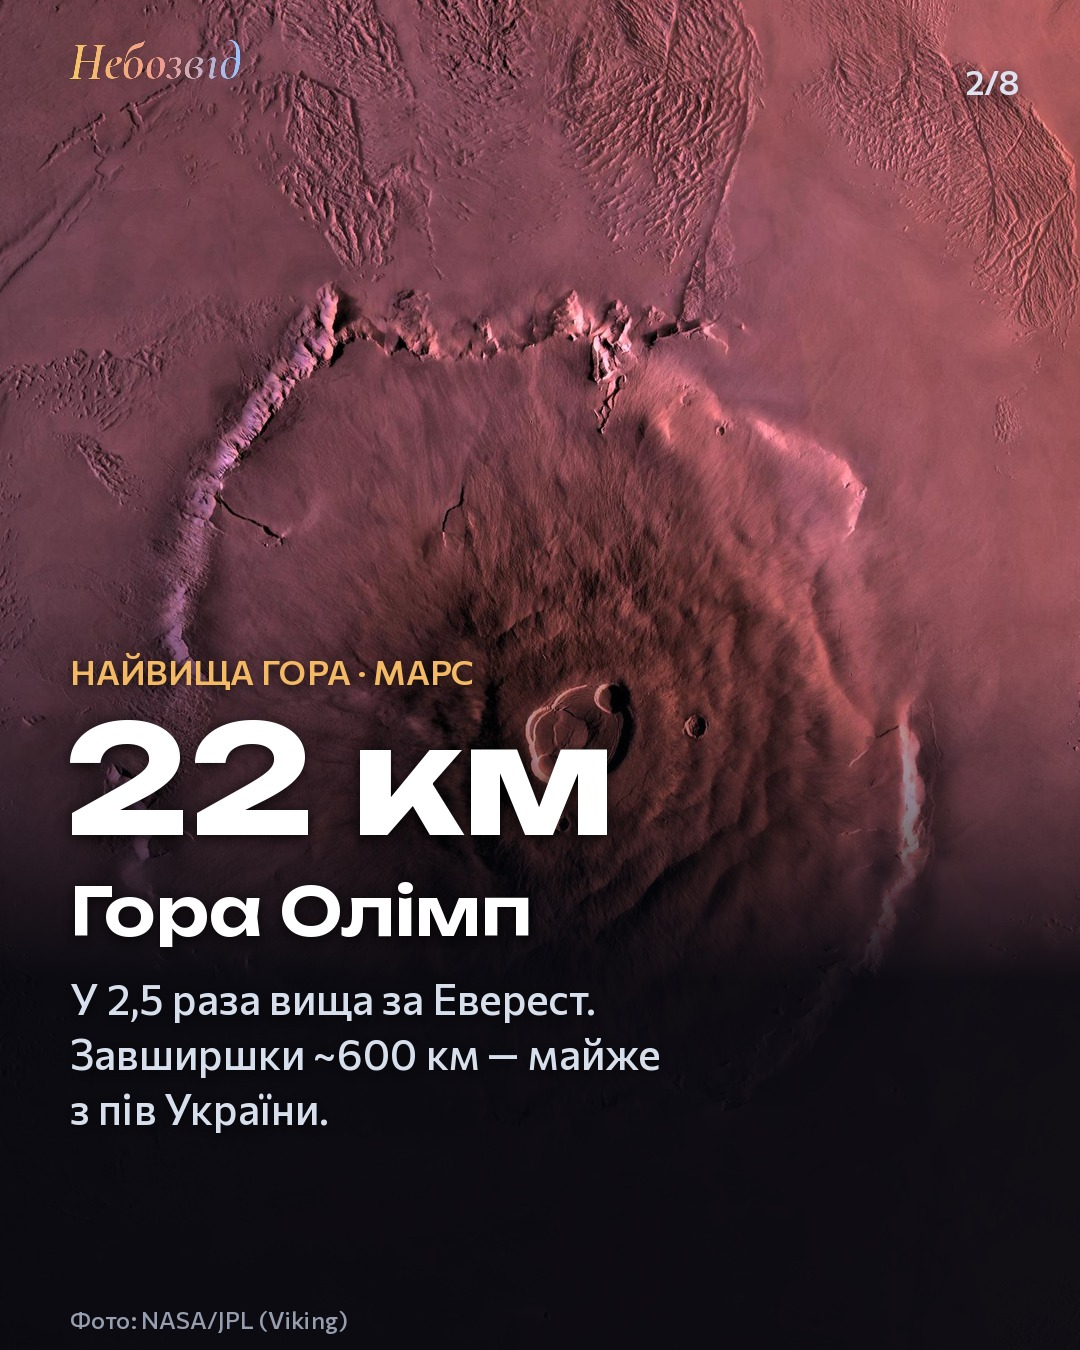
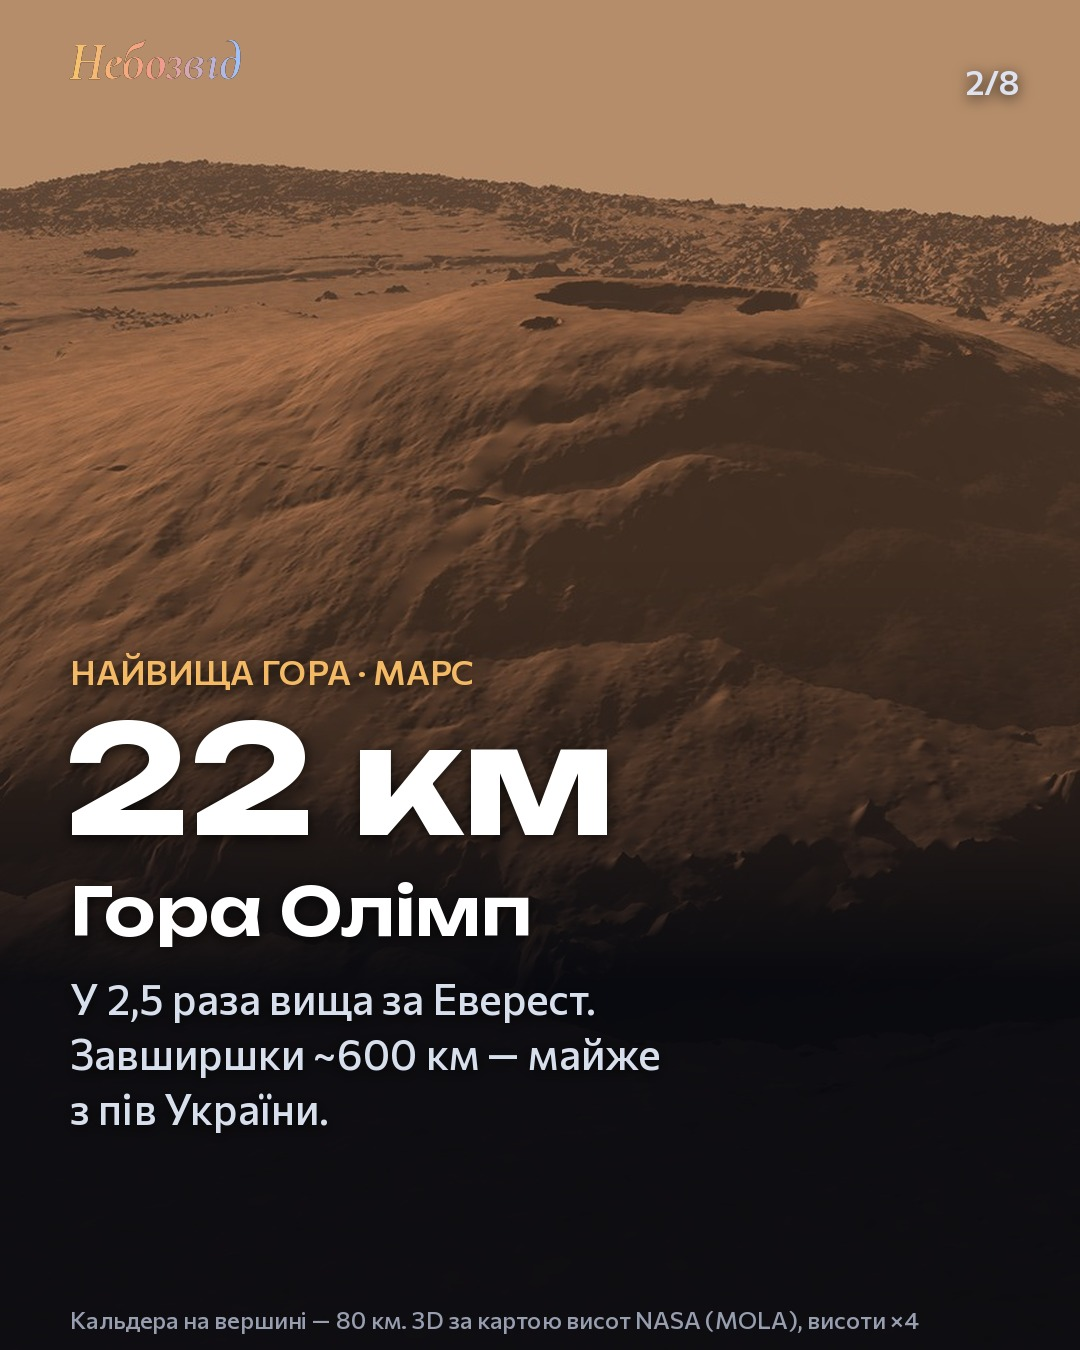
Карусель: Олімп у 3D за картою висот MOLA, детальніші фото (ВЧП, Офір, Ганімед)
Claude-Session: https://claude.ai/code/session_01RfjZRPM59VWfpV8yfzK8db

diff --git a/videos/tools/scenes/carousel_biggest/olympus.py b/videos/tools/scenes/carousel_biggest/olympus.py
@@ -1,0 +1,97 @@
+# Гора Олімп під кутом: справжня карта висот MOLA (MGS, NASA; MEGDR 128 пікс./°, плитка megt44n180hb), трасування
+# променів над рельєфом (numba), висоти ×EX, низьке Сонце, марсіанське небо. -> work/carousel_biggest/olympus.jpg
+#   python3 scenes/carousel_biggest/olympus.py [EX]
+import math, os, sys
+import numpy as np
+from numba import njit, prange
+from PIL import Image, ImageFilter
+HERE = os.path.dirname(os.path.abspath(__file__)); TOOLS = os.path.dirname(os.path.dirname(HERE))
+DL = os.path.join(TOOLS, 'work', 'carousel_biggest', 'dl')
+EX = float(sys.argv[1]) if len(sys.argv) > 1 else 2.5
+a = np.fromfile(os.path.join(DL, 'megt44n180hb.img'), '>i2').reshape(5632, 11520)
+LAT0, LON0 = 18.65, 226.2
+r0, r1 = int((44 - 30) * 128), int((44 - 7) * 128); c0, c1 = int((214 - 180) * 128), int((238 - 180) * 128)
+Z = a[r0:r1, c0:c1].astype(np.float32) / 1000.0            # km
+Z -= np.median(Z)
+KM = 3389.5 * math.pi / 180 / 128                            # km per pixel (lat)
+kx = KM * math.cos(math.radians(LAT0))
+ny, nx = Z.shape
+# map coords: x east km, y north km; origin at the summit
+cx, cy = (LON0 - 214) * 128, (30 - LAT0) * 128
+Z = Z * EX
+# albedo: smooth noise for dust variation
+rng = np.random.default_rng(3)
+nz = rng.standard_normal((ny // 8 + 1, nx // 8 + 1)).astype(np.float32)
+nz = np.ascontiguousarray(np.asarray(Image.fromarray(nz).resize((nx, ny), Image.BICUBIC)), dtype=np.float32)
+W, H, SS = 1080, 1350, 2
+
+@njit(fastmath=True)
+def hgt(Z, px, py):
+    ny, nx = Z.shape
+    if px < 0 or py < 0 or px >= nx - 1 or py >= ny - 1: return -1e9
+    i, j = int(px), int(py); fx, fy = px - i, py - j
+    return (Z[j, i] * (1 - fx) + Z[j, i + 1] * fx) * (1 - fy) + (Z[j + 1, i] * (1 - fx) + Z[j + 1, i + 1] * fx) * fy
+
+@njit(parallel=True, fastmath=True)
+def render(Z, nz, cam, fw, rt, up, fov, kx, KM, cx, cy, sun, out, W, H):
+    tanf = math.tan(fov / 2)
+    for py_ in prange(H):
+        for px_ in range(W):
+            u = (2 * (px_ + 0.5) / W - 1) * tanf * W / H; v = (1 - 2 * (py_ + 0.5) / H) * tanf
+            dx = fw[0] + rt[0] * u + up[0] * v; dy = fw[1] + rt[1] * u + up[1] * v; dz = fw[2] + rt[2] * u + up[2] * v
+            dl = math.sqrt(dx * dx + dy * dy + dz * dz); dx /= dl; dy /= dl; dz /= dl
+            t = 1.0; hit = False
+            for s in range(4000):
+                X = cam[0] + dx * t; Y = cam[1] + dy * t; Zc = cam[2] + dz * t
+                h = hgt(Z, cx + X / kx, cy - Y / KM)
+                if h < -1e8 and t > 50: break
+                if Zc < h:
+                    t0 = t - max(0.25, t * 0.002)
+                    for k in range(10):
+                        tm = (t0 + t) / 2
+                        if cam[2] + dz * tm < hgt(Z, cx + (cam[0] + dx * tm) / kx, cy - (cam[1] + dy * tm) / KM): t = tm
+                        else: t0 = tm
+                    hit = True; break
+                t += max(0.25, t * 0.002)
+                if t > 2500: break
+            if hit:
+                X = cam[0] + dx * t; Y = cam[1] + dy * t; Zc = cam[2] + dz * t
+                mx = cx + X / kx; my = cy - Y / KM
+                gx = (hgt(Z, mx + 1, my) - hgt(Z, mx - 1, my)) / (2 * kx)
+                gy = -(hgt(Z, mx, my + 1) - hgt(Z, mx, my - 1)) / (2 * KM)
+                nl = math.sqrt(gx * gx + gy * gy + 1); n0 = -gx / nl; n1 = -gy / nl; n2 = 1 / nl
+                lam = max(0.0, n0 * sun[0] + n1 * sun[1] + n2 * sun[2])
+                sh = 1.0; qx = X + n0 * 0.05; qy = Y + n1 * 0.05; qz = Zc + n2 * 0.05
+                for k in range(70):
+                    st = 0.6 + k * 0.25
+                    qx += sun[0] * st; qy += sun[1] * st; qz += sun[2] * st
+                    hh = hgt(Z, cx + qx / kx, cy - qy / KM)
+                    if hh < -1e8: break
+                    if qz < hh: sh = 0.22; break
+                al = 1.0 + 0.06 * nz[int(my), int(mx)]
+                slope = 1.0 - n2
+                li = 0.06 + 1.45 * lam * sh
+                r = (0.62 * al * (1 - 0.35 * slope) + 0.08 * slope) * li + 0.06
+                g = (0.36 * al * (1 - 0.35 * slope) + 0.05 * slope) * li + 0.035
+                b = (0.20 * al * (1 - 0.35 * slope) + 0.04 * slope) * li + 0.025
+                hz = (1.0 - math.exp(-t / 2600.0)) * 0.85
+                r = r * (1 - hz) + 0.62 * hz; g = g * (1 - hz) + 0.45 * hz; b = b * (1 - hz) + 0.33 * hz
+            else:
+                el = max(dz, 0.0); k3 = (1 - el) ** 3
+                r = 0.66 * k3 + 0.20 * (1 - k3); g = 0.48 * k3 + 0.14 * (1 - k3); b = 0.34 * k3 + 0.12 * (1 - k3)
+            out[py_, px_, 0] = r; out[py_, px_, 1] = g; out[py_, px_, 2] = b
+
+def look(cam, tgt):
+    fw = tgt - cam; fw /= np.linalg.norm(fw)
+    rt = np.cross(fw, [0, 0, 1.0]); rt /= np.linalg.norm(rt); up = np.cross(rt, fw)
+    return fw, rt, up
+
+cam = np.array([300.0, -600.0, 210.0]); tgt = np.array([0.0, -40.0, -85.0])
+fw, rt, up = look(cam, tgt)
+sun = np.array([-0.85, 0.35, 0.33]); sun /= np.linalg.norm(sun)
+out = np.zeros((H * SS, W * SS, 3), np.float32)
+render(Z, nz, cam, fw, rt, up, math.radians(46), kx, KM, cx, cy, sun, out, W * SS, H * SS)
+img = np.clip(out, 0, 1) ** (1 / 1.25)
+im = Image.fromarray((img * 255).astype(np.uint8)).resize((W, H), Image.LANCZOS)
+im.save(os.path.join(TOOLS, 'work', 'carousel_biggest', 'olympus.jpg'), quality=93)
+print('olympus.jpg')

diff --git a/videos/tools/scenes/carousel_biggest/make.py b/videos/tools/scenes/carousel_biggest/make.py
@@ -70,23 +70,23 @@ def main():
     ld = lambda f: Image.open(os.path.join(DL, f))
     slides = []
     # 1 — the hook
-    img = shade(cover_crop(ld('PIA00407.jpg'), W, H, 0.5, 0.45, 1.12), 520, 1050).convert('RGBA')
+    img = shade(cover_crop(Image.open(os.path.join(TOOLS, 'work', 'carousel_biggest', 'olympus.jpg')), W, H, 0.5, 0.5, 1.0), 560, 1050).convert('RGBA')
     text(img, (70, 820), 'Тут є гора\nу 2,5 раза вища\nза Еверест', f_hook, (255, 255, 255), spacing=14)
     text(img, (70, 1160), 'Найбільше в Сонячній системі', f_body, SUN)
     w_ = ImageDraw.Draw(img).textlength('Найбільше в Сонячній системі', font=f_body)
     text(img, (70 + w_ + 18, 1158), '→', C.ImageFont.truetype(C.F_STAR, 44), SUN)
-    text(img, (70, H - 46), 'Марс. Фото: NASA/JPL (Viking)', f_small, (150, 158, 175), shadow=False)
+    text(img, (70, H - 46), 'Гора Олімп, Марс: 3D за картою висот NASA (MOLA), висоти ×4', f_small, (150, 158, 175), shadow=False)
     logo(img, 60); slides.append(img)
     # 2 — Olympus Mons
-    slides.append(frame(ld('PIA00300.jpg'), 'Найвища гора · Марс', '22 км', 'Гора Олімп', 'У 2,5 раза вища за Еверест.\nЗавширшки ~600 км — майже\nз пів України.', 'Фото: NASA/JPL (Viking)', 2, 0.5, 0.25, 1.0))
+    slides.append(frame(Image.open(os.path.join(TOOLS, 'work', 'carousel_biggest', 'olympus.jpg')), 'Найвища гора · Марс', '22 км', 'Гора Олімп', 'У 2,5 раза вища за Еверест.\nЗавширшки ~600 км — майже\nз пів України.', 'Кальдера на вершині — 80 км. 3D за картою висот NASA (MOLA), висоти ×4', 2, 0.5, 0.2, 1.35))
     # 3 — the Great Red Spot
-    slides.append(frame(ld('PIA21775.jpg'), 'Найбільший шторм · Юпітер', '> Землі', 'Велика червона пляма', 'Вихор, ширший за всю Землю.\nВирує щонайменше 150 років.', 'Фото: NASA/JPL-Caltech/SwRI/MSSS (Juno), обробка K. Gill', 3, 0.5, 0.25, 1.0))
+    slides.append(frame(ld('PIA21772.jpg'), 'Найбільший шторм · Юпітер', '> Землі', 'Велика червона пляма', 'Вихор, ширший за всю Землю.\nВирує щонайменше 150 років.', 'Фото: NASA/JPL-Caltech/SwRI/MSSS (Juno)', 3, 0.5, 0.3, 1.0))
     # 4 — Valles Marineris
-    slides.append(frame(ld('PIA04304.jpg'), 'Найбільший каньйон · Марс', '4 000 км', 'Долина Марінер', 'Утричі довша за Україну\nзі сходу на захід.\nГлибина — до 7 км.', 'Фото: NASA/JPL (Viking)', 4, 0.5, 0.2, 1.2))
+    slides.append(frame(ld('PIA00425.jpg'), 'Найбільший каньйон · Марс', '4 000 км', 'Долина Марінер', 'Утричі довша за Україну\nзі сходу на захід.\nГлибина — до 7 км.', 'Каньйон Офір, частина Долини Марінер. Фото: NASA/JPL (Viking)', 4, 0.45, 0.2, 1.0))
     # 5 — Verona Rupes
     slides.append(frame(ld('PIA18185.jpg'), 'Найвища скеля · Міранда, супутник Урана', '~20 км', 'Урвище Верона', 'Якби зістрибнути з краю,\nпадав би ~12 хвилин.', 'Фото: NASA/JPL (Voyager 2)', 5, 0.5, 0.2, 1.0))
     # 6 — Ganymede
-    slides.append(frame(ld('PIA24681.jpg'), 'Найбільший супутник · Юпітер', '5 268 км', 'Ганімед', 'Більший за планету Меркурій\n(4 879 км).', 'Фото: NASA/JPL-Caltech/SwRI/MSSS (Juno)', 6, 0.5, 0.15, 1.0))
+    slides.append(frame(ld('PIA25012.jpg'), 'Найбільший супутник · Юпітер', '5 268 км', 'Ганімед', 'Більший за планету Меркурій\n(4 879 км).', 'Поверхня Ганімеда зблизька. Фото: NASA/JPL-Caltech/SwRI/MSSS (Juno)', 6, 0.5, 0.2, 1.0))
     # 7 — the Sun with the Earth to scale
     bg = Image.new('RGB', (W, H), (4, 5, 10)); s, glow = sun_render(1700)
     g = Image.new('RGB', s.size, (255, 170, 60)); bg.paste(g, (-1020, -620), glow); bg.paste(s, (-1020, -620), Image.fromarray((np.asarray(s).max(-1) > 0).astype(np.uint8) * 255))
